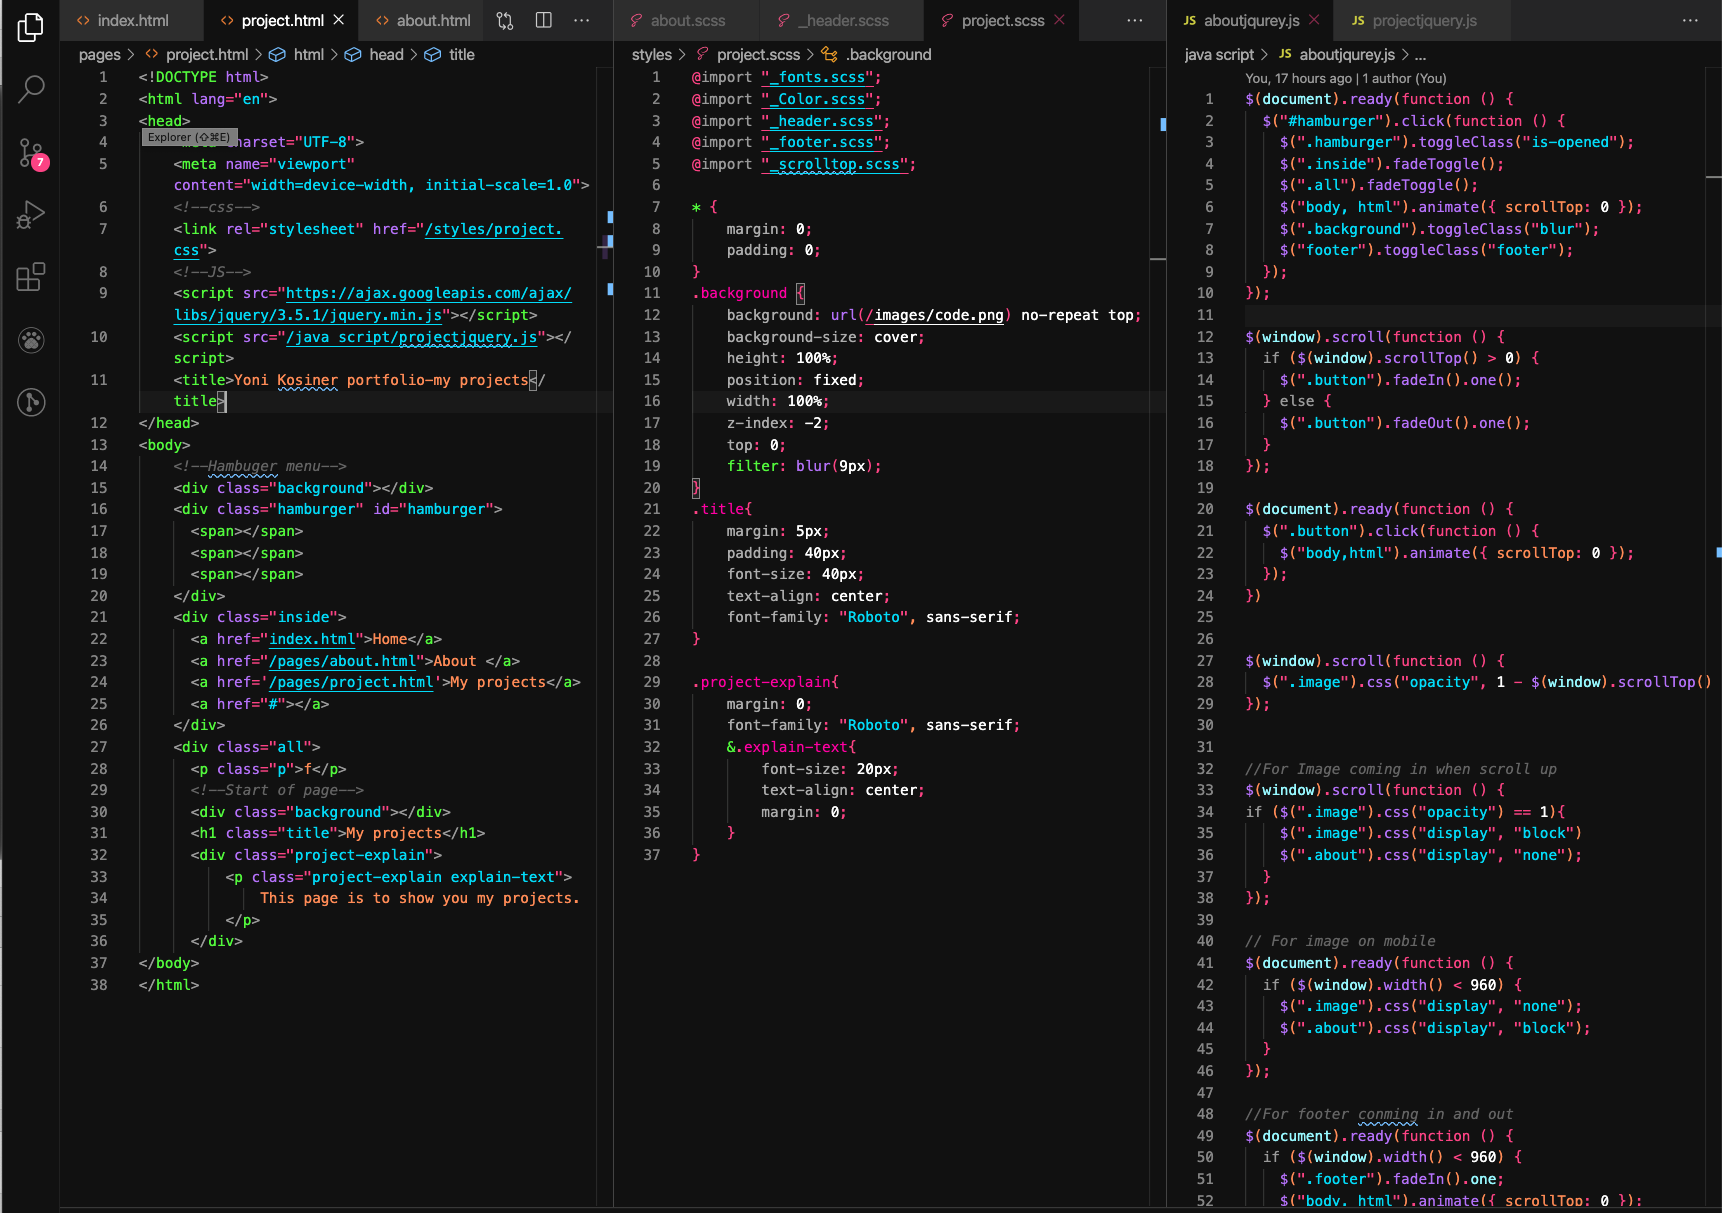
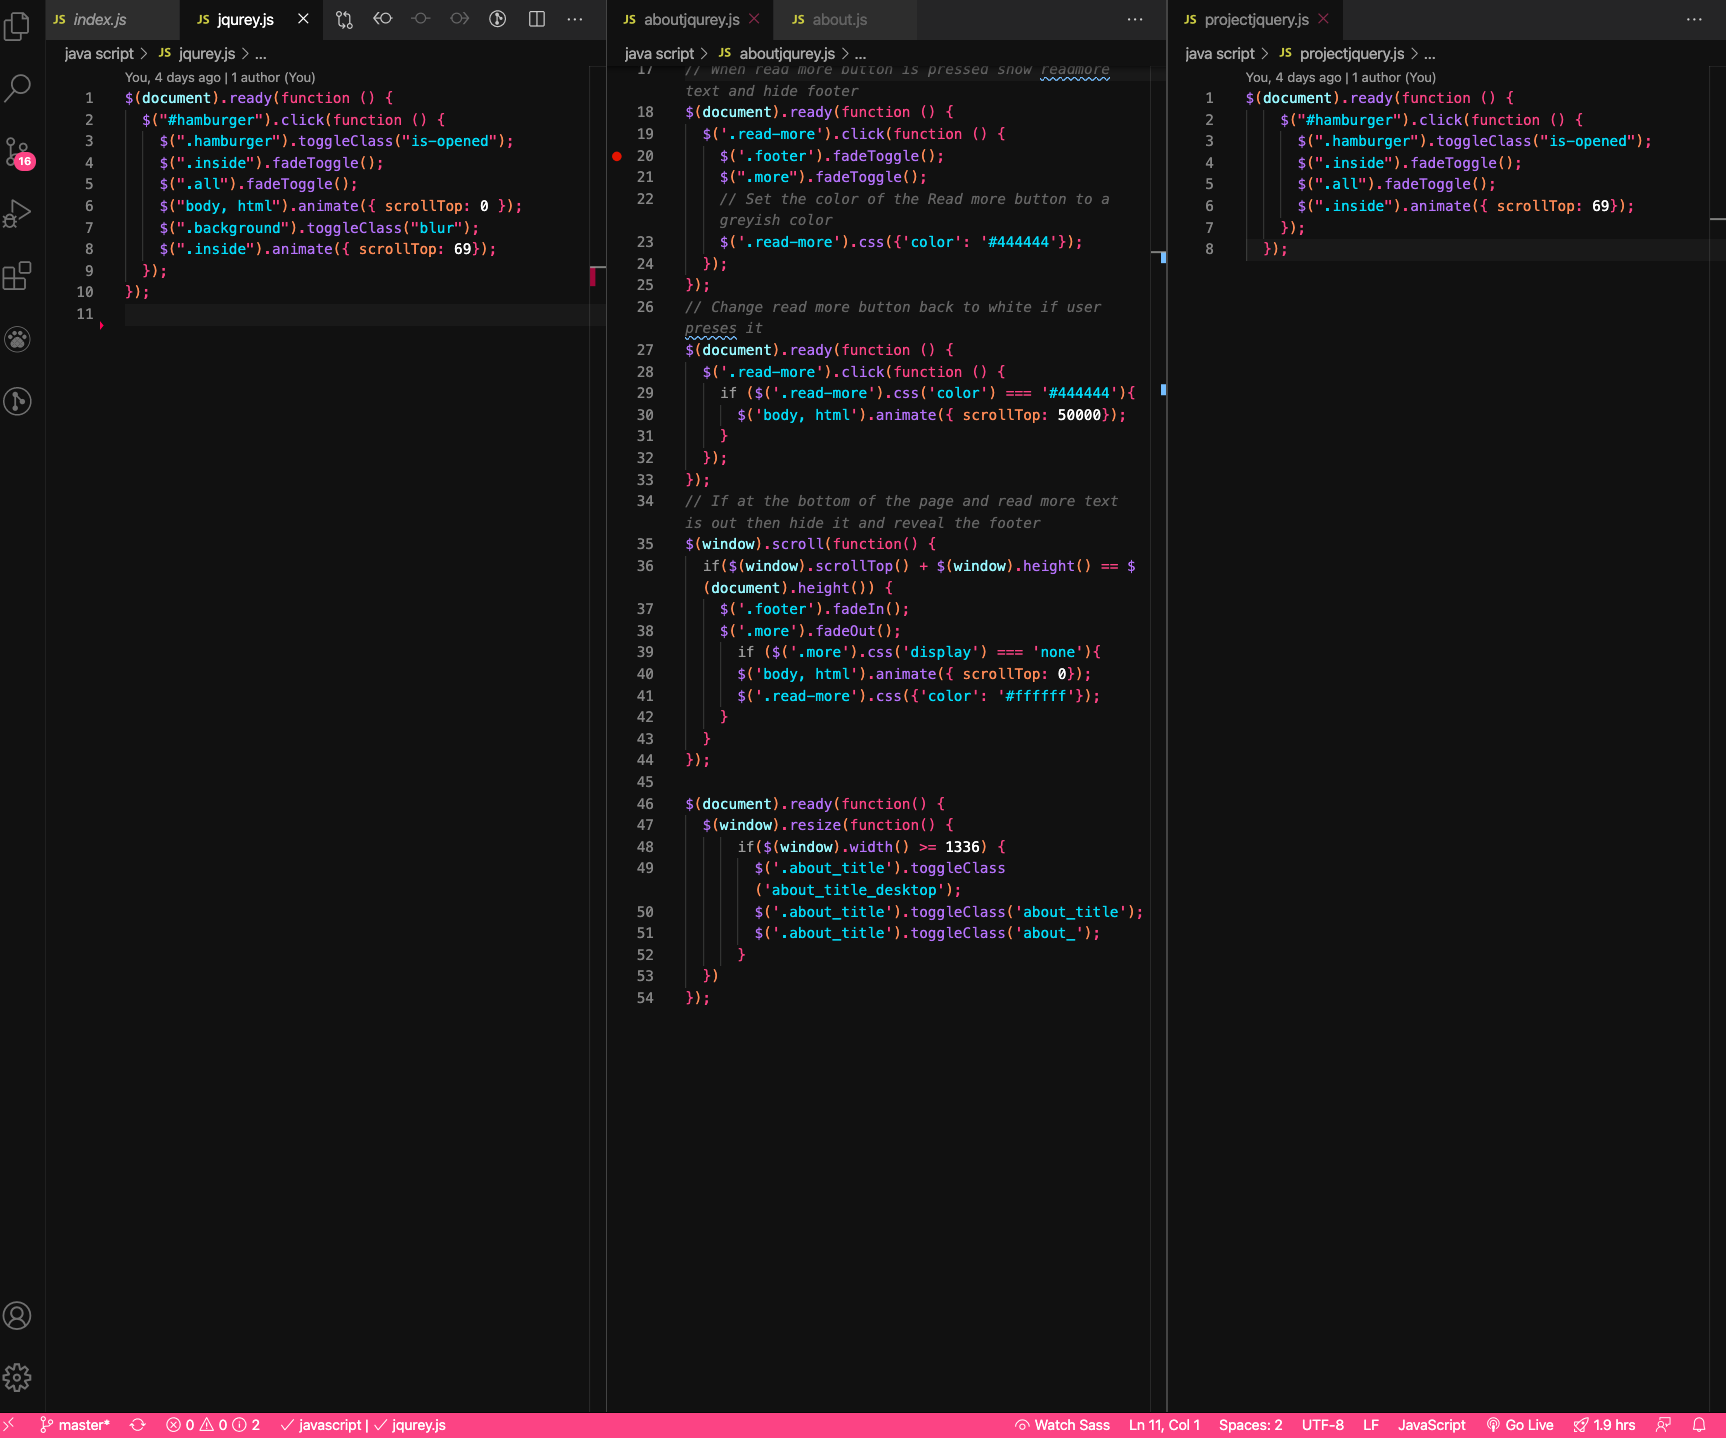
changing about page background and also brakeing it at the same time

diff --git a/pages/about.html b/pages/about.html
@@ -19,7 +19,6 @@
   </head>
   <body>
     <!--Hambuger menu-->
-    <div class="background"></div>
     <div class="hamburger" id="hamburger">
       <span></span>
       <span></span>
@@ -49,9 +48,11 @@
         <div class="more">
           <h2 class="more_ sub-codding">How I learnt coding</h2>
           <p class="more_ sub-codding_ codding_text">
-            From a young age I have always had a interest in tech. I used to watch videos on YouTube all day of tech. It did not take long for
+            <br> From a young age I have always had a interest in tech. I used to watch videos on YouTube all day of tech. It did not take long for
             me be to be a apple fan boy. Then while watching tech videos one day I ended up watching lego games and from lego games i got into 
-            minecraft which got me into minecraft redstone which was like coding with logic. Then a year later I did this online course to learn basic python although I did not pay much attention to it. But i still had basic python skills that i used time to time. Then on august 28th 2019 i looked up on YouTube how to code. The video suggested a websites called <a class="freecode" href="https://wwww.freecodecamp.org">freecodecamp</a> and that websites let me learn web development which led me to learn IOS development and a lot more python skills (not just math and print and a few other basic functions of what i knew before). And here we are today thanks to freecodecamp change my life. I will forever be grateful to freecodecamp. 
+            minecraft which got me into minecraft redstone which was like coding with logic. Then a year later I did this online course to learn basic python although I did not pay much attention to it. But i still had basic python skills that i used time to time. Then on august 28th 2019 i looked up on YouTube how to code. The video suggested a websites called <a class="global-link global-underline" href="https://wwww.freecodecamp.org">freecodecamp</a> and that websites let me learn web development which led me to learn IOS development and a lot more python skills (not just math and print and a few other basic functions of what i knew before). And here we are today thanks to freecodecamp change my life. I will forever be grateful to 
+            freecodecamp. <br>
+            <br> <h6 class="p">f</h6>
           </p>
         </div> 
      <div id="footer"></div>

diff --git a/styles/about.css b/styles/about.css
@@ -3,6 +3,11 @@
 @import url("https://fonts.googleapis.com/css2?family=Roboto:wght@500&display=swap");
 @import url("https://fonts.googleapis.com/css2?family=Roboto&display=swap");
 @import url("https://fonts.googleapis.com/css2?family=Pridi:wght@600&display=swap");
+.global-link {
+  text-decoration: none;
+  color: #ffffff;
+}
+
 ::-webkit-scrollbar {
   width: 0px;
   background: transparent;
@@ -16,6 +21,7 @@
   margin: 0px;
   padding: 0px;
   position: -webkit-sticky;
+  /* Safari */
   position: sticky;
   top: 0;
   right: 0;
@@ -218,29 +224,16 @@
   padding: 0;
   max-width: 100%;
   overflow-x: hidden;
-}
-
-.background {
-  background: url(/images/overhead.jpg) no-repeat top;
-  background-size: cover;
-  height: 100%;
-  position: fixed;
-  width: 100%;
-  z-index: -2;
-  top: 0;
-  -webkit-filter: blur(9px);
-          filter: blur(9px);
-  -webkit-transform: scale(1.1);
-          transform: scale(1.1);
+  background-color: #555555;
 }
 
 .title {
   width: 100%;
-  position: -webkit-sticky;
   position: sticky;
+  position: -webkit-sticky;
   text-align: center;
   font-weight: bold;
-  color: #555555;
+  color: #ffffff;
   font-size: 60px;
   font-family: "Roboto", sans-serif;
 }
@@ -263,7 +256,7 @@
 }
 
 .about_.about_text {
-  font-size: 20px;
+  font-size: 30px;
   line-height: 30px;
   color: #ffffff;
 }
@@ -302,15 +295,15 @@
 .more_.sub-codding {
   text-align: left;
   margin: 20px;
+  font-size: 50px;
 }
 
 .more_.sub-codding_.codding_text {
   margin: 20px;
-}
-
-.more_.sub-codding_.codding_text > .freecode {
-  text-decoration: none;
+  font-size: 30px;
   color: #ffffff;
+  background-color: #555555;
+  border-radius: 1%;
 }
 
 @media screen and (max-width: 769px) {

diff --git a/styles/about.scss b/styles/about.scss
@@ -1,4 +1,5 @@
 @import"_fonts.scss";
+@import "_global-styles.scss";
 @import "_Color.scss";
 @import "_header.scss";
 @import "_footer.scss";
@@ -9,24 +10,16 @@
   padding: 0;
   max-width: 100%;
   overflow-x: hidden;
+  background-color: #555555;
 }
-.background {
-  background: url(/images/overhead.jpg) no-repeat top;
-  background-size: cover;
-  height: 100%;
-  position: fixed;
-  width: 100%;
-  z-index: -2;
-  top: 0;
-  filter: blur(9px);
-  transform: scale(1.1);
-}
+
 .title {
   width: 100%;
   position: sticky;
+  position: -webkit-sticky;
   text-align: center;
   font-weight: bold;
-  color: #555555;
+  color: #ffffff;
   font-size: 60px;
   font-family: "Roboto", sans-serif;
 }
@@ -45,7 +38,7 @@
     font-size: 40px;
   }
   &_.about_text {
-    font-size: 20px;
+    font-size: 30px;
     line-height: 30px;
     color: #ffffff;
   }
@@ -83,12 +76,13 @@
   &_.sub-codding{
     text-align: left;
     margin: 20px;
+    font-size: 50px;
     &_.codding_text{
       margin: 20px;
-      >.freecode{
-        text-decoration: none;
-        color: #ffffff;
-      }
+      font-size: 30px;
+      color: $white;
+      background-color: $light-grey;
+      border-radius: 1%;
     }
   }
 }

diff --git a/styles/project.scss b/styles/project.scss
@@ -22,13 +22,13 @@
     padding: 40px;
     font-size: 40px;
     text-align: center;
-    color: #ffffff;
+    color: $white;
     font-family: "Roboto", sans-serif;
 }
 
 .project-explain{
     margin: 0;
-    color: #ffffff;
+    color: $white;
     font-family: "Roboto", sans-serif;
     &.explain-text{
         font-size: 20px;

diff --git a/java script/aboutjqurey.js b/java script/aboutjqurey.js
@@ -4,6 +4,7 @@ $(document).ready(function () {
     $(".inside").fadeToggle();
     $('.about').fadeToggle();
     $('.title').fadeToggle();
+    $('.read-more').fadeToggle();
     $(".inside").animate({ scrollTop: 69});
     $(".background").toggleClass("blur");
   });

diff --git a/styles/_header.scss b/styles/_header.scss
@@ -9,7 +9,7 @@
   width: 100px;
   margin: 0px;
   padding: 0px;
-  position: -webkit-sticky;
+  position: -webkit-sticky; /* Safari */
   position: sticky;
   top: 0;
   right: 0;

diff --git a/styles/index.css b/styles/index.css
@@ -16,6 +16,7 @@
   margin: 0px;
   padding: 0px;
   position: -webkit-sticky;
+  /* Safari */
   position: sticky;
   top: 0;
   right: 0;

diff --git a/styles/project.css b/styles/project.css
@@ -16,6 +16,7 @@
   margin: 0px;
   padding: 0px;
   position: -webkit-sticky;
+  /* Safari */
   position: sticky;
   top: 0;
   right: 0;
